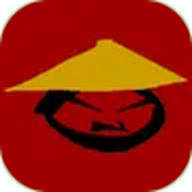
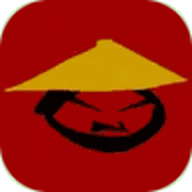
Performance: Versions-Reload behoben, schnellere Nachschlage-Funktionen, kleinere Bilder
- app-version/version.json/?v= waren nicht synchron (55/56/57) -> jeder Aufruf lud die Seite doppelt; jetzt einheitlich 58
- byId, profileOf, kinder, naechsterTermin nutzen gecachte Map-Verzeichnisse statt Listen-Durchsuchung
- Protokoll wird parallel zu den Tabellen geladen
- preconnect zu Supabase und jsDelivr
- PNGs verlustarm komprimiert (223 KB -> 50 KB)

Claude-Session: https://claude.ai/code/session_018ES9kssBkAqUsK3TpfSXAu

diff --git a/index.html b/index.html
@@ -14,13 +14,16 @@
   <meta name="apple-mobile-web-app-title" content="Wiwang Law">
   <meta name="apple-mobile-web-app-status-bar-style" content="black-translucent">
   <meta name="format-detection" content="telephone=no">
-  <meta name="app-version" content="55">
-  <link rel="stylesheet" href="style.css?v=57">
+  <meta name="app-version" content="58">
+  <!-- Verbindungen zu Datenbank und CDN schon aufbauen, während die Seite noch lädt -->
+  <link rel="preconnect" href="https://btpgnraeumxortphkpgz.supabase.co" crossorigin>
+  <link rel="preconnect" href="https://cdn.jsdelivr.net" crossorigin>
+  <link rel="stylesheet" href="style.css?v=58">
 </head>
 <body>
   <header class="topbar">
     <a class="brand" href="#/" data-action="charakter-menue" title="Charakter wechseln">
-      <img class="brand-logo" src="assets/logo.png?v=57" alt="Wiwang Law">
+      <img class="brand-logo" src="assets/logo.png?v=58" alt="Wiwang Law">
       <span id="brand-wechsel" class="brand-wechsel" hidden aria-hidden="true">⇄</span>
       <span id="brand-sub" class="brand-sub">Aktensystem</span>
     </a>
@@ -88,7 +91,7 @@
   <!-- Login -->
   <section id="login-screen" class="center-screen" hidden>
     <form id="login-form" class="card login-card">
-      <div class="login-brand"><img src="assets/logo.png?v=57" alt="Wiwang Law"></div>
+      <div class="login-brand"><img src="assets/logo.png?v=58" alt="Wiwang Law"></div>
       <h2>Anmelden</h2>
       <p class="muted">Nur für Mitglieder der Kanzlei Wiwang Law.</p>
       <button type="button" class="btn discord full" data-action="discord-login">
@@ -110,7 +113,7 @@
   <!-- Discord-Konto ohne aktiven Charakter: Registrierung, Freigabe, Charakter wählen -->
   <section id="konto-screen" class="center-screen" hidden>
     <div class="card login-card konto-card">
-      <div class="login-brand"><img src="assets/logo.png?v=57" alt="Wiwang Law"></div>
+      <div class="login-brand"><img src="assets/logo.png?v=58" alt="Wiwang Law"></div>
       <div id="konto-inhalt"></div>
     </div>
   </section>
@@ -119,7 +122,7 @@
   <!-- Mandantenportal (angemeldet als Mandanten-Charakter) -->
   <main id="portal" hidden></main>
 
-  <a class="guide-btn" href="leitfaden/straftat.html?v=57" title="Leitfaden: Abhandlung einer Straftat (öffentlich)" aria-label="Leitfaden: Abhandlung einer Straftat">
+  <a class="guide-btn" href="leitfaden/straftat.html?v=58" title="Leitfaden: Abhandlung einer Straftat (öffentlich)" aria-label="Leitfaden: Abhandlung einer Straftat">
     <svg viewBox="0 0 16 16" aria-hidden="true"><path d="M3.5 2.5h7a2 2 0 0 1 2 2v9h-7a2 2 0 0 1-2-2zM3.5 11.5a2 2 0 0 1 2-2h7M6.5 5.5h3" fill="none" stroke="currentColor" stroke-width="1.5" stroke-linecap="round" stroke-linejoin="round"/></svg>
     <span>Leitfaden</span>
   </a>
@@ -136,30 +139,30 @@
   <!-- KI-Antworten: Markdown → HTML (Showdown) und Bereinigung (DOMPurify) -->
   <script src="https://cdn.jsdelivr.net/npm/showdown@2.1.0/dist/showdown.min.js" integrity="sha384-GP2+CwBlakZSDJUr+E4JvbxpM75i1i8+RKkieQxzuyDZLG+5105E1OfHIjzcXyWH" crossorigin="anonymous"></script>
   <script src="https://cdn.jsdelivr.net/npm/dompurify@3.2.6/dist/purify.min.js" integrity="sha384-JEyTNhjM6R1ElGoJns4U2Ln4ofPcqzSsynQkmEc/KGy6336qAZl70tDLufbkla+3" crossorigin="anonymous"></script>
-  <script src="config.js?v=57"></script>
-  <script src="update-check.js?v=57"></script>
-  <script src="js/util.js?v=57"></script>
-  <script src="js/data.js?v=57"></script>
-  <script src="js/forms.js?v=57"></script>
-  <script src="js/app.js?v=57"></script>
-  <script src="js/konto.js?v=57"></script>
-  <script src="js/dokumente.js?v=57"></script>
-  <script src="js/akten.js?v=57"></script>
-  <script src="js/uebersicht.js?v=57"></script>
-  <script src="js/mandanten.js?v=57"></script>
-  <script src="js/kalender.js?v=57"></script>
-  <script src="js/rechnungen.js?v=57"></script>
-  <script src="js/gesetzbuch.js?v=57"></script>
-  <script src="js/gesetze.js?v=57"></script>
-  <script src="js/team.js?v=57"></script>
-  <script src="js/buchhaltung.js?v=57"></script>
-  <script src="js/finanzen.js?v=57"></script>
-  <script src="js/zusammenarbeit.js?v=57"></script>
-  <script src="js/pinnwand.js?v=57"></script>
-  <script src="js/ablaeufe.js?v=57"></script>
-  <script src="js/assistent.js?v=57"></script>
-  <script src="js/nigel.js?v=57"></script>
-  <script src="js/portal-verwaltung.js?v=57"></script>
-  <script src="js/portal.js?v=57"></script>
+  <script src="config.js?v=58"></script>
+  <script src="update-check.js?v=58"></script>
+  <script src="js/util.js?v=58"></script>
+  <script src="js/data.js?v=58"></script>
+  <script src="js/forms.js?v=58"></script>
+  <script src="js/app.js?v=58"></script>
+  <script src="js/konto.js?v=58"></script>
+  <script src="js/dokumente.js?v=58"></script>
+  <script src="js/akten.js?v=58"></script>
+  <script src="js/uebersicht.js?v=58"></script>
+  <script src="js/mandanten.js?v=58"></script>
+  <script src="js/kalender.js?v=58"></script>
+  <script src="js/rechnungen.js?v=58"></script>
+  <script src="js/gesetzbuch.js?v=58"></script>
+  <script src="js/gesetze.js?v=58"></script>
+  <script src="js/team.js?v=58"></script>
+  <script src="js/buchhaltung.js?v=58"></script>
+  <script src="js/finanzen.js?v=58"></script>
+  <script src="js/zusammenarbeit.js?v=58"></script>
+  <script src="js/pinnwand.js?v=58"></script>
+  <script src="js/ablaeufe.js?v=58"></script>
+  <script src="js/assistent.js?v=58"></script>
+  <script src="js/nigel.js?v=58"></script>
+  <script src="js/portal-verwaltung.js?v=58"></script>
+  <script src="js/portal.js?v=58"></script>
 </body>
 </html>

diff --git a/js/data.js b/js/data.js
@@ -102,12 +102,16 @@ async function fetchAll(table) {
 }
 
 async function loadAll() {
-  const results = await Promise.all(TABLES.map((t) => (LADER[t] || fetchAll)(t)));
+  // Alle Tabellen und das Protokoll gleichzeitig laden (nicht nacheinander)
+  const protokoll = db.from("protokoll").select("*")
+    .order("id", { ascending: false }).limit(PROTOKOLL_LIMIT);
+  const [results, { data, error }] = await Promise.all([
+    Promise.all(TABLES.map((t) => (LADER[t] || fetchAll)(t))),
+    protokoll,
+  ]);
+  if (error) throw error;
   TABLES.forEach((t, i) => (state[t] = results[i]));
   aktivCache = null;
-  const { data, error } = await db.from("protokoll").select("*")
-    .order("id", { ascending: false }).limit(PROTOKOLL_LIMIT);
-  if (error) throw error;
   state.protokoll = data;
   applySettings();
   state.loaded = true;
@@ -183,6 +187,7 @@ function applyChange(table, payload) {
 
 function upsertLocal(table, row) {
   aktivCache = null;
+  indexVergessen(table);
   const key = PK[table] || "id";
   const list = state[table];
   const i = list.findIndex((r) => r[key] === row[key]);
@@ -248,15 +253,51 @@ async function deleteRow(table, id) {
 }
 
 // ---------- Nachschlagen ----------
-const byId = (table, id) => (id ? state[table].find((r) => r.id === id) : undefined);
+// Nachschlage-Verzeichnisse (Map) je Tabelle und Spalte – statt bei jedem Aufruf die ganze
+// Liste zu durchsuchen. Sie werden beim ersten Bedarf gebaut und verfallen automatisch,
+// sobald die Tabelle ersetzt (state[t] = …) oder per upsertLocal geändert wird.
+const INDEX = {};
+function indexVergessen(table) {
+  for (const k of Object.keys(INDEX)) if (k.startsWith(table + ".")) delete INDEX[k];
+}
+// Eindeutige Spalte → Zeile (bei Doppelten gewinnt die erste, wie bei Array.find)
+function index(table, feld, wert = (r) => r[feld]) {
+  const k = `${table}.${feld}`;
+  const list = state[table];
+  let c = INDEX[k];
+  if (!c || c.list !== list || c.len !== list.length) {
+    const map = new Map();
+    for (const r of list) { const v = wert(r); if (v != null && !map.has(v)) map.set(v, r); }
+    c = INDEX[k] = { list, len: list.length, map };
+  }
+  return c.map;
+}
+// Spalte → alle passenden Zeilen
+function gruppen(table, feld) {
+  const k = `${table}.${feld}[]`;
+  const list = state[table];
+  let c = INDEX[k];
+  if (!c || c.list !== list || c.len !== list.length) {
+    const map = new Map();
+    for (const r of list) {
+      const v = r[feld];
+      if (v == null) continue;
+      const g = map.get(v);
+      if (g) g.push(r); else map.set(v, [r]);
+    }
+    c = INDEX[k] = { list, len: list.length, map };
+  }
+  return c.map;
+}
+
+const byId = (table, id) => (id ? index(table, "id").get(id) : undefined);
 
 function profileOf(idOrEmail) {
   if (!idOrEmail) return undefined;
   if (String(idOrEmail).includes("@")) {
-    const e = String(idOrEmail).toLowerCase();
-    return state.profiles.find((p) => (p.email || "").toLowerCase() === e);
+    return index("profiles", "email~", (p) => (p.email || "").toLowerCase()).get(String(idOrEmail).toLowerCase());
   }
-  return state.profiles.find((p) => p.user_id === idOrEmail);
+  return index("profiles", "user_id").get(idOrEmail);
 }
 
 // Anzeigename einer Person (über User-ID oder E-Mail)
@@ -394,7 +435,8 @@ function akteOptions() {
 }
 
 function kinder(table, akteId) {
-  return state[table].filter((r) => r.akte_id === akteId);
+  // Kopie zurückgeben – Aufrufer sortieren das Ergebnis teils direkt
+  return (gruppen(table, "akte_id").get(akteId) || []).slice();
 }
 
 // Letzte Aktivität je Akte (neuester Eintrag, Termin, Aufgabe … ) – einmal für alle
@@ -434,8 +476,8 @@ function liegenGeblieben(akte) {
 
 function naechsterTermin(akteId) {
   const now = startOfDay();
-  return state.termine
-    .filter((t) => t.akte_id === akteId && !t.erledigt && new Date(t.beginn) >= now)
+  return kinder("termine", akteId)
+    .filter((t) => !t.erledigt && new Date(t.beginn) >= now)
     .sort((a, b) => new Date(a.beginn) - new Date(b.beginn))[0];
 }
 

diff --git a/js/dokumente.js b/js/dokumente.js
@@ -9,7 +9,7 @@
 // =============================================================
 
 const s = () => state.settings;
-const DOC_LOGO = "assets/logo-dokument.png?v=1"; // freigestelltes Logo aus den alten Kanzlei-Dokumenten
+const DOC_LOGO = "assets/logo-dokument.png?v=2"; // freigestelltes Logo aus den alten Kanzlei-Dokumenten
 
 // ---------- Seitenrahmen ----------
 // Kopf (thead) und unterer Rand (tfoot) wiederholen sich beim Drucken
